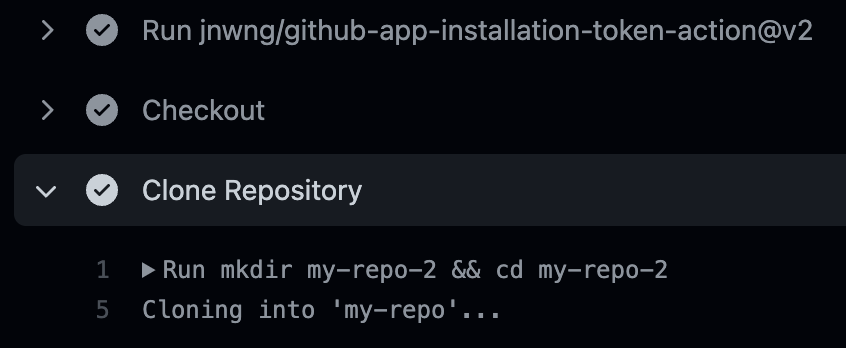
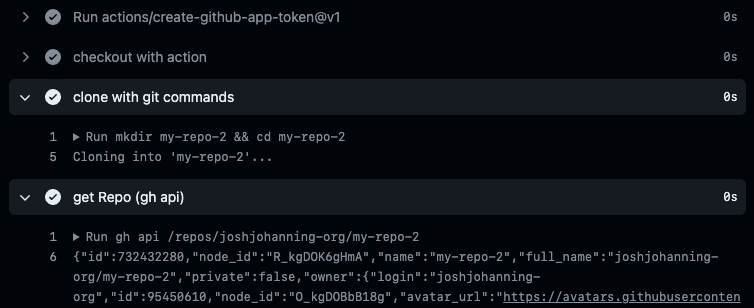
using official action in github app post

diff --git a/_posts/2022-02-07-github-apps.md b/_posts/2022-02-07-github-apps.md
@@ -19,7 +19,7 @@ In GitHub Actions, the [GitHub Token](https://dev.to/github/the-githubtoken-in-g
 
 1. Use someone's Personal Access Token (PAT) - but what happens if that person leaves? Or if you need to write back to an issue, for example, it's going to look like it came from that user
 2. Create a service account - but this is going to consume a license, and you still have to manage with vaulting and storing a long-lived PAT somewhere, and if that PAT gets exposed, you're opening yourselves up to a huge security risk
-3. GitHub Apps!
+3. Creating a **GitHub App** and using it for authentication! 🚀
 
 In this post, I will go through the setup and usage of GitHub Apps in an Actions workflow with two scenarios: [Using a GitHub App to grant access to a single repository](#scenario-1-using-a-github-app-to-grant-access-to-a-single-repository) and [Using a GitHub App as a rich comment bot](#scenario-2-using-a-github-app-as-a-rich-comment-bot).
 
@@ -41,9 +41,11 @@ When authenticating with the `GITHUB_TOKEN` in a GitHub Actions workflows in an 
 
 - Each organization can only own up to [100 GitHub Apps](https://docs.github.com/en/developers/apps/getting-started-with-apps/about-apps#about-github-apps)
 - You'll have to be an [organization owner](https://docs.github.com/en/organizations/managing-peoples-access-to-your-organization-with-roles/roles-in-an-organization#organization-owners) to create an app that's owned by the organization, and only organization owners can install a GitHub App
-    - Non-organization owners can create a personal app and request it to be installed by the org, but it will be owned by the user and not the organization
+    - Non-organization owners can be designated as [GitHub App managers](https://docs.github.com/en/apps/maintaining-github-apps/about-github-app-managers) to be able to create and update GitHub Apps owned by the organization (this is a better way than being owned by a user account)
+    - Non-organization owners can also create a GitHub App owned by their user account and request it to be installed by the org, but it will be owned by the user and not the organization (not recommended)
 - Each installation access token is only valid for a [maximum of one hour](https://docs.github.com/en/rest/reference/apps#create-an-installation-access-token-for-an-app)
-- GitHub Apps [can't be used to authenticate to GitHub Packages](https://github.com/orgs/community/discussions/26920) (have to use personal access tokens for this)
+  - But the fact that it does expire is a good thing!
+- GitHub Apps [can't be used to authenticate to GitHub Packages](https://github.com/orgs/community/discussions/26920) (have to use a personal access token)
 - If you make a [GitHub App private](https://docs.github.com/en/enterprise-cloud@latest/developers/apps/managing-github-apps/making-a-github-app-public-or-private), other apps can't see it / interact with it
   - Example: You can't use GitHub App A to modify a branch protection policy to let GitHub App B to bypass the policy if GitHub App B is private - GitHub App B would have to be a Public app
 
@@ -51,40 +53,47 @@ When authenticating with the `GITHUB_TOKEN` in a GitHub Actions workflows in an 
 
 Creating a GitHub App is pretty straightforward! I'll defer to [GitHub's documentation for the details](https://docs.github.com/en/developers/apps/building-github-apps/creating-a-github-app), but here's a quick overview:
 
-1. Navigate to the organization's settings page
+
+> [Organization owner](https://docs.github.com/en/organizations/managing-peoples-access-to-your-organization-with-roles/roles-in-an-organization#organization-owners) or [GitHub App manager](https://docs.github.com/en/organizations/managing-peoples-access-to-your-organization-with-roles/roles-in-an-organization#github-app-managers) permissions are required in order to create a GitHub App on behalf of an organization. You *can* create a GitHub App in your user account and request it to be installed to the organization, but long term it's better to have the GitHub App owned by the organization.
+{: .prompt-tip }
+
+1. Navigate to the **organization's settings** page
 2. Expand the "**Developer Settings**" section at the bottom of the page and navigate to **GitHub Apps**
 3. Click "**New GitHub App**" in the upper right-hand corner
 4. Start filling in the details! 
     - The name and Homepage URL doesn't matter much right now (but it does need a valid URL here) 
-    - *(Optional - for use with webhooks)* - If you want the GitHub app to send webhooks based on events, and want an easy way to inspect the payload that is being sent, you can use something like [smee.io](https://smee.io/) to create a channel and use the [URL of the channel](https://smee.io/cm3xXguj5Ds9hs8) as the Webhook URL
-6. Grant it the **repository permissions**, **organization permissions**, **user permissions**, and what events to subscribe to - for the examples in this blog post, we'll grant **read-only** access to `repository / contents`, **read & write** access to `repository / issues`, and **read-only** access to `organization / members` - if you change this after the it's already been installed to an organization, you'll have review and re-approve the permission changes for the GitHub App
-8. After creation, you should see the **App ID** - we will need this later on
-    - *(Optional - for use with webhooks)* - After creation, you should see a "ping" entry in your [smee.io channel](https://smee.io/cm3xXguj5Ds9hs8) - this is a confirmation that the app was created - the **App ID** is available in this payload as well
-9.  On the left-hand menu, you should now have a few options, one of those being "**Install App**" - click it, and install the app to the organization, or alternatively, install the app to selected repositories that you want it to be able to access
-10. After installing the application, pay attention to the URL in the browser (see screenshot below) - the number at the end of the URL is the installation ID, which we'll need later on 
-    - *(Optional - for use with webhooks)* - In your [smee.io channel](https://smee.io/cm3xXguj5Ds9hs8), you should have a new payload from the installation - expand the "installation" property to find your "**installation ID**" - this is the ID that you'll need to use in the next section
-11. Lastly, navigate back to your GitHub App's administration page, scroll down, and **[generate a private key for the app](https://docs.github.com/en/developers/apps/building-github-apps/authenticating-with-github-apps#generating-a-private-key)** - download the file and grab the contents of the certificate by opening it in VSCode or if you are on macOS: `cat approveops-bot.2022-02-07.private-key | pbcopy`
+    - *(Optional - for use with webhooks)* - If you want the GitHub App to send webhooks based on events, and want an easy way to inspect the payload that is being sent, you can use something like [smee.io](https://smee.io/) to create a channel and use the [URL of the channel](https://smee.io/cm3xXguj5Ds9hs8) as the Webhook URL
+5. Grant it the **repository permissions**, **organization permissions**, **user permissions**, and what events to subscribe to - for the examples in this blog post, we'll grant **read-only** access to `repository / contents`, **read & write** access to `repository / issues`, and **read-only** access to `organization / members` - if you change this after the it's already been installed to an organization, you'll have review and re-approve the permission changes for the GitHub App
+6. After creation, you should see the **App ID** - we will need this later on
+    - *(Optional - for use with webhooks)* - After creation, you should see a "ping" entry in your [smee.io channel](https://smee.io/cm3xXguj5Ds9hs8) - this is a confirmation that the app was created - the **App ID** is also available in this payload
+7. Scroll down and **[generate a private key for the app](https://docs.github.com/en/developers/apps/building-github-apps/authenticating-with-github-apps#generating-a-private-key)** - download the file and grab the contents of the certificate by opening it in VSCode or if you are on macOS, use the command to copy to your clipboard: `cat approveops-bot.2022-02-07.private-key | pbcopy`
+8.  Scroll back up and in the left-hand menu, click on the "**Install App**" link and install the app to the organization
+  -  Determine if you will grant the app access to all repos in an organization, or only to selected repo(s)
+9.  After installing the app, pay attention to the URL in the browser (see screenshot below) - the number at the end of the URL is the **installation ID**, and depending on how you're using the app, you may need this
+    - *(Optional - for use with webhooks)* - In your [smee.io channel](https://smee.io/cm3xXguj5Ds9hs8), you should have a new payload from the installation - expand the "installation" property to find your "**installation ID**"
 
-🎉 With the **App ID**, **Installation ID**, and **Private Key**, we now have everything we need to use the app in Actions! 🥳
+🎉 With the app installed and knowing the **App ID**, **Installation ID**, and **Private Key**, we now have everything we need to generate an installation token use the app in Actions! 🥳
 
 ![Installation ID after installing GitHub App](installation-id-github.png ){: .shadow }
-_An example of an Installation ID in the address bar after installing a GitHub app_
+_An example of an Installation ID in the address bar after installing a GitHub App_
 
 ![Installation and App ID from a payload in smee.io](installation-id.png ){: width="600" }{: .shadow }
 _An example of an Installation ID and App ID from a payload in smee.io_
 
 ## Using the GitHub App in a GitHub Actions workflow
 
-There are a couple different actions to use such as:
+Now that GitHub has a first-party action, I tend to always prefer to use that one:
 
-- [navikt/github-app-token-generator](https://github.com/marketplace/actions/github-app-installation-access-token-generator)
+- [actions/create-github-app-token](https://github.com/marketplace/actions/create-github-app-token)
+
+It's really quite simple to use an app in Actions now that you have the app ID, the org name, and the private key. The only prerequisite is to create a secret on the repository (or [organization](https://docs.github.com/en/actions/security-guides/encrypted-secrets#creating-encrypted-secrets-for-an-organization)) with the private key's contents, taking care not to modify the key's value in any way. I named my secret `PRIVATE_KEY`.
+
+There are other popular actions in the marketplace that I have used in the past, for reference:
+
+- [tibdex/github-app-token](https://github.com/marketplace/actions/github-app-token)
 - [peter-murray/workflow-application-token-action](https://github.com/marketplace/actions/workflow-application-token-action)
-- [jnwng/github-app-installation-token-action](https://github.com/marketplace/actions/create-github-app-installation-token)
-- [tibdex/github-app-token](https://github.com/marketplace/actions/github-app-token) (the one I am using below)
 
-I like **navikt's**, **jnwng's**, and **tibdex's** versions because it doesn't require the GitHub App to be installed on the repository that the action is running from whereas **peter-murray's** does. That's fine, but if the App must be installed on every repository, we're not saving a ton with the app over the PAT (except that the GitHub App's token has a built-in expiration). **navikt's** version is a Docker-based action. I'm typically going to prefer a node-based action if given the preference since typically a Docker action takes a little bit longer to initiate and requires one additional component to be installed if using self-hosted runners. **jnwng's** and **tibdex's** actions are node-based actions, and both certainly work. I slightly prefer **tibdex's** because you can either pass in an `installation_id` or not, depending on if the app is installed on the repository or not.
-
-It's really quite simple now that you have the installation ID, the app ID, and the private key. The only prerequisite is to create a secret on the repository (or [organization](https://docs.github.com/en/actions/security-guides/encrypted-secrets#creating-encrypted-secrets-for-an-organization)) with the private key's contents. I named my secret `PRIVATE_KEY`.
+Different actions ask for different things: sometimes the app ID and installation ID and sometimes the app ID and org name. The installation ID is tied to the org (each org an app is installed to has a unique installation ID). If you need it for another action, the installation ID is available in the URL when you install the app. We are always going to need use the private key though.
 
 ### Scenario 1: Using a GitHub App to grant access to a single repository
 
@@ -97,55 +106,56 @@ Here's the action code to generate and sign an installation access token for aut
 {% raw %}
 ```yml
     steps:
-      - uses: tibdex/github-app-token@v1
-        id: get_installation_token
+      - uses: actions/create-github-app-token@v1
+        id: app-token
         with: 
-          app_id: 170544
-          # installation_id not needed IF the app is installed on this current repo
-          installation_id: 29881931
-          private_key: ${{ secrets.PRIVATE_KEY }}
+          app-id: ${{ vars.APP_ID }}
+          private-key: ${{ secrets.PRIVATE_KEY }}
+          # optional: owner not needed IF the app has access to the repo running the workflow
+          #   if you get 'RequestError [HttpError]: Not Found 404', pass in owner
+          owner: ${{ github.repository_owner }}
 
       # example 1a - cloning repo - clone using the `actions/checkout` step
       - name: Checkout
-        uses: actions/checkout@v2.4.0
+        uses: actions/checkout@v4
         with:
-          repository: my-org/my-repo
-          token: ${{ steps.get_installation_token.outputs.token }}
+          repository: my-org/my-repo-2
+          token: ${{ steps.app-token.outputs.token }}
           path: my-repo
 
       # example 1b - cloning repo - using git clone command
       - name: Clone Repository
         run: | 
           mkdir my-repo-2 && cd my-repo-2
-          git clone https://x-access-token:${{ steps.get_installation_token.outputs.token }}@github.com/my-org/my-repo.git
+          git clone https://x-access-token:${{ steps.app-token.outputs.token }}@github.com/my-org/my-repo.git
 
       # example 2a - api - call an api using curl
       - name: Get Repo (curl)
         run: | 
           curl \
-            -H "Authorization: Bearer ${{ steps.get_installation_token.outputs.token }}" \
+            -H "Authorization: Bearer ${{ steps.app-token.outputs.token }}" \
             https://api.github.com/repos/joshjohanning-org/composite-caller-1
 
       # example 2b - api - call an api using the GitHub CLI
       - name: Get Repo (gh api)
         env:
-          GH_TOKEN: ${{ steps.get_installation_token.outputs.token }}
+          GH_TOKEN: ${{ steps.app-token.outputs.token }}
         run: | 
           gh api /repos/joshjohanning-org/composite-caller-1
 ```
 {: file='.github/workflows/test-permissions.yml'}
 {% endraw %}
 
-With the GitHub app installed on the `my-org/my-repo-2` repository and passing in the installation ID to the action, we have access to clone the repository even though it's not the repository that the workflow is running from. We can also use the token generated here as a Bearer token for GitHub API requests, assuming it has the access.
+With the GitHub App only having access to the `my-org/my-repo-2` repository and passing in the `owner` to the action, we can clone the other repository even though it's not the repository running the workflow. We can also use the token generated here as a Bearer token for GitHub API requests or set the `GH_TOKEN` environment variable for `gh` CLI commands, assuming the app has the proper access to call the API endpoint(s).
 
-![Successful Git clone using a GitHub App](clone-from-app.png ){: width="500" }{: .shadow }
-_Successful Git clone using a GitHup App_
+![Using a GitHub App's credentials to clone a repo and query the API](clone-from-app.png){: .shadow }
+_Using a GitHub App's credentials to clone a repo and query the API_
 
-🎉 Repo cloned! 🥳
+🎉 We can clone the repo as well as query the API without using a PAT! 🥳
 
 ### Scenario 2: Using a GitHub App as a rich comment bot
 
-I'll often use the [peter-evans/create-or-update-comment](https://github.com/marketplace/actions/create-or-update-comment) action to create a comment on a pull request or issue. Typically, I'll just use the ${{ secrets.GITHUB_TOKEN }} for the `token` which comments as the `github-actions` bot, and it looks great!
+I'll often use the [peter-evans/create-or-update-comment](https://github.com/marketplace/actions/create-or-update-comment) action to create a comment on a pull request or issue. Typically, I'll just use the {% raw %}`${{ secrets.GITHUB_TOKEN }}`{% endraw %} for the `token` which comments as the `github-actions` bot, and it works great!
 
 {% raw %}
 ![GitHub Actions Comment Bot](github-actions-bot.png ){: .shadow }
@@ -169,17 +179,17 @@ Here's the relevant action code:
 {% raw %}
 ```yml
     steps:
-      - uses: tibdex/github-app-token@v1
-        id: get_installation_token
+      - uses: actions/create-github-app-token@v1
+        id: app-token
         with: 
-          app_id: 170544
-          private_key: ${{ secrets.PRIVATE_KEY }}
+          app-id: ${{ vars.APP_ID }}
+          private-key: ${{ secrets.PRIVATE_KEY }}
           
       - if: ${{ steps.check-approval.outputs.approved == 'false' }}
         name: Create completed comment
         uses: peter-evans/create-or-update-comment@v1
         with:
-          token: ${{ steps.get_installation_token.outputs.token }}
+          token: ${{ steps.app-token.outputs.token }}
           issue-number: ${{ github.event.issue.number }}
           body: |
             Hey, @${{ github.event.comment.user.login }}!
@@ -189,19 +199,25 @@ Here's the relevant action code:
 {: file='.github/workflows/approveops.yml'}
 {% endraw %}
 
-You'll notice that we didn't have to pass in an installation ID this time to the action. This is because the GitHub App is installed on the repository, and the action can therefore lookup the installation ID dynamically to get the token.
+You'll notice that we didn't have to pass in an `owner` input this time to the action. This is because the GitHub App is installed on the repository running the action, and therefore the action can find the app's installation dynamically to create the token.
 
 🎉 Issue comment with team mentioning success! 🥳
+
+> Check out my next post, [ApproveOps: Approvals in IssueOps](/posts/github-approveops), for more information on the approval action workflow I'm using above.
+{: .prompt-info }
 
 ## Summary
 
 When I first learned about GitHub Apps, I was like, "This is cool, but I'm not going to be writing an app and creating code just for authentication, that's too much work, I'll just use a PAT." However, as you just saw, we created a GitHub App and used it for authentication without tying it to any code. 
 
 {% raw %}
-In both scenarios, we use the [tibdex/github-app-token](https://github.com/marketplace/actions/github-app-token) action and the installation access token that is an output parameter: `${{ steps.get_installation_token.outputs.token }}`. We use this token to make authenticated requests to the API or as the password in Git clones. Alternatively, [GitHub has sample Ruby code](https://docs.github.com/en/developers/apps/building-github-apps/authenticating-with-github-apps#authenticating-as-a-github-app) for creating a and signing the JWT and retrieving an installation ID, but the action is so much simpler!
+In both scenarios, we use the [actions/create-github-app-token](https://github.com/marketplace/actions/create-github-app-token) action and the installation access token that is an output parameter: `${{ steps.app-token.outputs.token }}`. We use this token to make authenticated requests to the API or as the password in Git clones. Alternatively, [GitHub has sample Ruby code](https://docs.github.com/en/developers/apps/building-github-apps/authenticating-with-github-apps#authenticating-as-a-github-app) for creating a and signing the JWT and retrieving an installation ID, but the action is so much simpler!
 
-Check out my next post, [ApproveOps: Approvals in IssueOps](/posts/github-approveops), for more information on the action workflow I'm using in the second scenario.
+If you wanted to be able to generate a token locally, whether for scripting not being ran in Actions or simply to test out an app's permissions, you can use the [Link-/gh-token](https://github.com/Link-/gh-token?tab=readme-ov-file) `gh` CLI extension.
 
-Happy App-ing!
+![Generating a GitHub App Installation Token with a gh CLI extension](gh-token.png )
+_Generating a GitHub App Installation Token with a [`gh` CLI extension](https://github.com/Link-/gh-token?tab=readme-ov-file)_
+
+Happy GitHub App-ing and no longer having to generate a long-lived PAT! 🚀
 
 {% endraw %}
